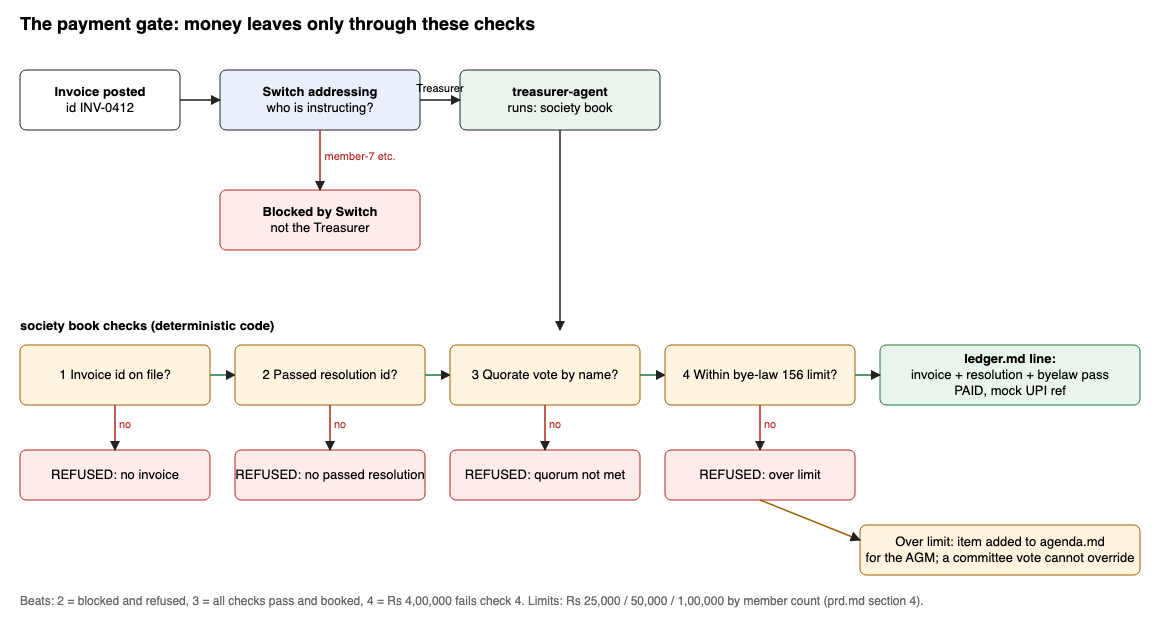
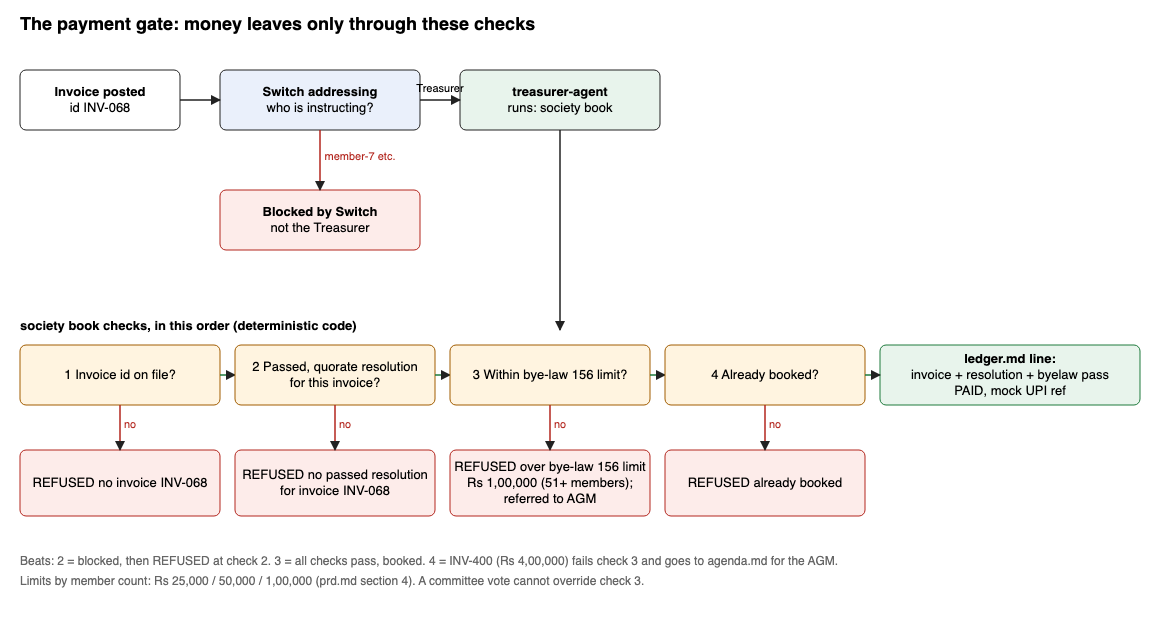
design: gate diagram and wireframes match code (INV-068/400, real check order, exact refusal lines)

diff --git a/docs/design/wireframes/make.py b/docs/design/wireframes/make.py
@@ -95,38 +95,38 @@ BEATS = [
    ("minutes.md", ["(empty)"]), ("ledger.md", ["(empty)"]), ("resolutions.jsonl", ["(empty)"])],
   "Cold open: headline card (Lohegaon committee dissolved) cuts to this screen. Rooms, 4 agents, docs from one YAML."),
  (2, "'Just pay it' is blocked", "Switch refuses; agent refuses again", "#committee",
-  [("human", "lift-amc (vendor)", "VENDOR", "Invoice INV-0412: Lift AMC, Rs 68,000. Attached invoices/INV-0412.txt"),
+  [("human", "lift-amc (vendor)", "VENDOR", "Invoice INV-068: Lift AMC, Rs 68,000. Attached invoices/INV-068.txt"),
    ("human", "member-7", "MEMBER", "@treasurer-agent just pay it"),
    ("switch", "Switch blocked this message", "", "member-7 is not the Treasurer. treasurer-agent accepts instructions from the Treasurer only (owner_only). Message was not delivered."),
-   ("human", "Treasurer", "TREASURER", "@treasurer-agent pay INV-0412"),
-   ("agent", "treasurer-agent", "", "Refused. No resolution on file for INV-0412. Needs: invoice id, passed resolution id, bye-law pass."),
+   ("human", "Treasurer", "TREASURER", "@treasurer-agent pay INV-068"),
+   ("agent", "treasurer-agent", "", "REFUSED no passed resolution for invoice INV-068"),
   ],
-  [("invoices/", ["INV-0412  Rs 68,000", "  lift AMC, Q4"]),
-   ("resolutions.jsonl", ["(none for INV-0412)"]), ("ledger.md", ["(empty)"])],
+  [("invoices/", ["INV-068  Rs 68,000", "  lift AMC, Q4"]),
+   ("resolutions.jsonl", ["(none for INV-068)"]), ("ledger.md", ["(empty)"])],
   "Red banner = refusal by role addressing (Switch), not by the LLM. Second refusal = rule check."),
  (3, "Quorum, vote by name, booked", "Resolution id links the payment", "#committee",
-  [("human", "Chairman", "CHAIRMAN", "Opening meeting M-07. Agenda: INV-0412 lift AMC Rs 68,000."),
+  [("human", "Chairman", "CHAIRMAN", "Opening meeting M-07. Agenda: INV-068 lift AMC Rs 68,000."),
    ("agent", "clerk", "", "Quorum: 41 of 60 present, need 20. Quorate. Motion recorded."),
    ("human", "Chairman", "CHAIRMAN", "Motion: approve Rs 68,000 to Lift AMC. Vote."),
    ("agent", "clerk", "", "Aye: Sharma, Iyer, Khan, Patil (4 of 5 committee). Nay: Desai. Tally 4 aye, 1 nay, 41 of 60 present. Passed. Resolution R-2026-07 recorded."),
    ("agent", "byelaw", "", "Rs 68,000 <= Rs 1,00,000 limit (bye-law 156). Pass."),
-   ("human", "Treasurer", "TREASURER", "@treasurer-agent pay INV-0412 under R-2026-07"),
-   ("agent", "treasurer-agent", "", "Booked: INV-0412, R-2026-07, byelaw pass. PAID, mock UPI ref MOCK-88213."),
+   ("human", "Treasurer", "TREASURER", "@treasurer-agent pay INV-068 under R-2026-07"),
+   ("agent", "treasurer-agent", "", "Booked: INV-068, R-2026-07, byelaw pass. PAID, mock UPI ref MOCK-88213."),
   ],
   [("minutes.md", ["M-07  quorate 41/60", "Motion: pay Lift AMC", "Ayes: Sharma Iyer", "      Khan Patil", "Nay: Desai"]),
    ("resolutions.jsonl", ["R-2026-07 passed", "prev_hash: 9f2c.."]),
-   ("ledger.md", ["INV-0412 68,000", "R-2026-07  PAID", "mock UPI MOCK-88213"])],
+   ("ledger.md", ["INV-068 68,000", "R-2026-07  PAID", "mock UPI MOCK-88213"])],
   "Ledger line carries all three ids. Hash chain on resolutions (cut candidate)."),
  (4, "Rs 4 lakh bid goes to the AGM", "Bye-law 156 cap enforced in code", "#committee",
-  [("human", "Secretary", "SECRETARY", "Repainting bid: Rs 4,00,000 from Rangoli Paints. Committee to approve?"),
-   ("agent", "byelaw", "", "Cannot approve. Bye-law 156: committee limit is Rs 1,00,000 for societies with 51+ members. Rs 4,00,000 exceeds it."),
-   ("agent", "byelaw", "", "Moved to the AGM agenda as item A-3 for a general-body resolution."),
+  [("human", "Secretary", "SECRETARY", "Repainting bid INV-400: Rs 4,00,000 from Rangoli Paints. Committee to approve?"),
+   ("agent", "byelaw", "", "REFUSED over bye-law 156 limit Rs 1,00,000 (51+ members); referred to AGM"),
+   ("agent", "byelaw", "", "Added to agenda.md as A-3 for a general-body resolution."),
    ("human", "Treasurer", "TREASURER", "@treasurer-agent pay the repainting advance"),
-   ("agent", "treasurer-agent", "", "Refused. No byelaw pass and no resolution for this item."),
+   ("agent", "treasurer-agent", "", "REFUSED no passed resolution for invoice INV-400"),
   ],
   [("byelaws.yaml", ["51+ members:", "  committee_limit: 100000"]),
    ("agenda.md", ["AGM", "A-3 Repainting Rs 4,00,000", "   (over committee limit)"]),
-   ("ledger.md", ["INV-0412 PAID", "(no repainting line)"])],
+   ("ledger.md", ["INV-068 PAID", "(no repainting line)"])],
   "Limit check is deterministic code over byelaws.yaml, cited by number."),
  (5, "A resident asks, the concierge cites", "Linked #general-body, read-only on drafts", "#general-body",
   [("human", "member-23", "RESIDENT", "Why did maintenance go up Rs 95 a month?"),

diff --git a/docs/design/diagrams/make.py b/docs/design/diagrams/make.py
@@ -58,28 +58,29 @@ def architecture(p):
 
 def gate(p):
     s = Svg(1160, 620, "The payment gate: money leaves only through these checks")
-    s.box(20, 70, 160, 60, ["Invoice posted", "id INV-0412"], bold=1)
+    s.box(20, 70, 160, 60, ["Invoice posted", "id INV-068"], bold=1)
     s.box(220, 70, 200, 60, ["Switch addressing", "who is instructing?"], "sw", bold=1)
     s.box(220, 190, 200, 60, ["Blocked by Switch", "not the Treasurer"], "bad", bold=1, stroke=RED)
     s.box(460, 70, 200, 60, ["treasurer-agent", "runs: society book"], "ag", bold=1)
     s.arrow(180, 100, 220, 100); s.arrow(420, 100, 460, 100, "")
     s.o.append(f'<text x="440" y="92" text-anchor="middle" font-size="11">Treasurer</text>')
     s.arrow(320, 130, 320, 190, "member-7 etc.", color=RED, ly=0, lx=40)
-    gates = [("1  Invoice id on file?", "no invoice"), ("2  Passed resolution id?", "no passed resolution"), ("3  Quorate vote by name?", "quorum not met"), ("4  Within bye-law 156 limit?", "over limit")]
-    x = 20
-    s.o.append(f'<text x="20" y="330" font-weight="bold">society book checks (deterministic code)</text>')
+    gates = [(["1  Invoice id on file?"], ["REFUSED no invoice INV-068"]),
+             (["2  Passed, quorate resolution", "for this invoice?"], ["REFUSED no passed resolution", "for invoice INV-068"]),
+             (["3  Within bye-law 156 limit?"], ["REFUSED over bye-law 156 limit", "Rs 1,00,000 (51+ members);", "referred to AGM"]),
+             (["4  Already booked?"], ["REFUSED already booked"])]
+    s.o.append(f'<text x="20" y="330" font-weight="bold">society book checks, in this order (deterministic code)</text>')
     for i, (q, no) in enumerate(gates):
         gx = 20 + i * 215
-        s.box(gx, 345, 190, 60, [q], "warn", stroke=AMBER)
-        if i < 3: s.arrow(gx + 190, 375, gx + 215, 375, "", color=GREEN)
-        s.box(gx, 450, 190, 50, ["REFUSED: " + no], "bad", stroke=RED)
-        s.arrow(gx + 95, 405, gx + 95, 450, "no", color=RED, lx=10, ly=0)
+        s.box(gx, 345, 200, 60, q, "warn", stroke=AMBER)
+        if i < 3: s.arrow(gx + 200, 375, gx + 215, 375, "", color=GREEN)
+        s.box(gx, 450, 200, 66, no, "bad", stroke=RED)
+        s.arrow(gx + 100, 405, gx + 100, 450, "no", color=RED, lx=10, ly=0)
     s.box(880, 345, 260, 60, ["ledger.md line:", "invoice + resolution + byelaw pass", "PAID, mock UPI ref"], "ok", bold=1, stroke=GREEN)
-    s.arrow(855, 375, 880, 375, "", color=GREEN)
-    s.box(860, 525, 280, 50, ["Over limit: item added to agenda.md", "for the AGM; a committee vote cannot override"], "warn", stroke=AMBER)
-    s.arrow(760, 500, 860, 540, "", color=AMBER)
+    s.arrow(865, 375, 880, 375, "", color=GREEN)
     s.arrow(560, 130, 560, 330, "")
-    s.o.append(f'<text x="20" y="605" fill="{MUTE}" font-size="12">Beats: 2 = blocked and refused, 3 = all checks pass and booked, 4 = Rs 4,00,000 fails check 4. Limits: Rs 25,000 / 50,000 / 1,00,000 by member count (prd.md section 4).</text>')
+    s.o.append(f'<text x="20" y="565" fill="{MUTE}" font-size="12">Beats: 2 = blocked, then REFUSED at check 2. 3 = all checks pass, booked. 4 = INV-400 (Rs 4,00,000) fails check 3 and goes to agenda.md for the AGM.</text>')
+    s.o.append(f'<text x="20" y="585" fill="{MUTE}" font-size="12">Limits by member count: Rs 25,000 / 50,000 / 1,00,000 (prd.md section 4). A committee vote cannot override check 3.</text>')
     s.save(p)
 
 if __name__ == "__main__":
